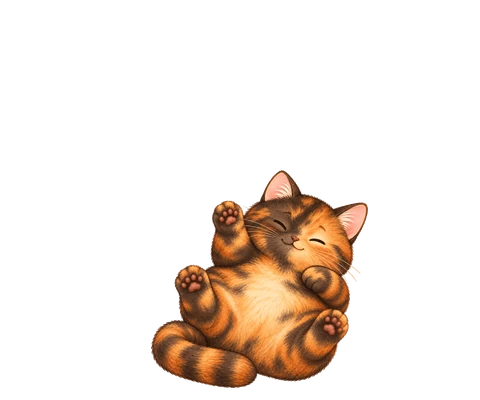
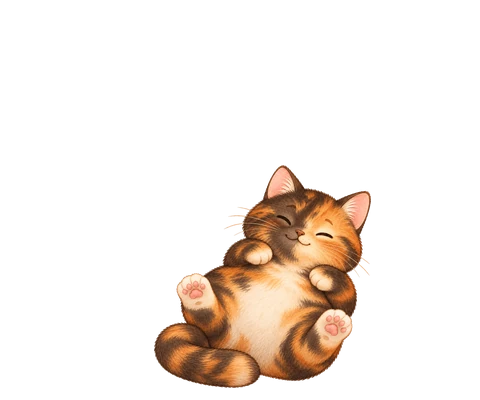
Extend the belly2 hug pose to 16 more cats; refresh silan/zohar belly2 art
paws overlays for dvash, kafe, kinamon, kokhav, lilach, namer, pilpel, rimon,
sheleg, shoko, silan, tapuz, tchelet, zayit, zohar (plus barzel already in),
each wired into CAT_HUG with a per-cat position/size (kafe and pilpel nudged
off the shared default after visual testing).

Claude-Session: https://claude.ai/code/session_01E7v64VRdhvH8oCgXhRmXMK

Changed region(s): [[0.3125, 0.42, 0.7812, 0.99]]

diff --git a/index.html b/index.html
@@ -906,6 +906,21 @@
   // baseline position in the spot).
   const CAT_HUG = {
     'barzel-belly2': { left: 37.51, top: 42.01, w: 38.64 },
+    'dvash-belly2': { left: 37.51, top: 42.01, w: 38.64 },
+    'kafe-belly2': { left: 36.26, top: 44.51, w: 38.64 },
+    'kinamon-belly2': { left: 37.51, top: 42.01, w: 38.64 },
+    'kokhav-belly2': { left: 37.51, top: 42.01, w: 38.64 },
+    'lilach-belly2': { left: 37.51, top: 42.01, w: 38.64 },
+    'namer-belly2': { left: 37.51, top: 42.01, w: 38.64 },
+    'pilpel-belly2': { left: 37.51, top: 44.51, w: 38.64 },
+    'rimon-belly2': { left: 37.51, top: 42.01, w: 38.64 },
+    'sheleg-belly2': { left: 37.51, top: 42.01, w: 38.64 },
+    'shoko-belly2': { left: 37.51, top: 42.01, w: 38.64 },
+    'silan-belly2': { left: 37.51, top: 42.01, w: 38.64 },
+    'tapuz-belly2': { left: 37.51, top: 42.01, w: 38.64 },
+    'tchelet-belly2': { left: 37.51, top: 42.01, w: 38.64 },
+    'zayit-belly2': { left: 37.51, top: 42.01, w: 38.64 },
+    'zohar-belly2': { left: 37.51, top: 42.01, w: 38.64 },
   };
   function catLayer(v, it, itemId) {
     const pose = v.pose || it.pose;
